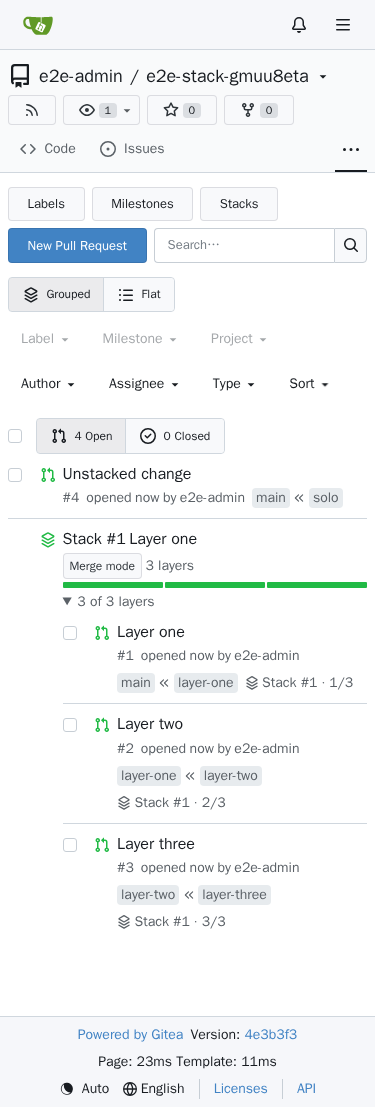
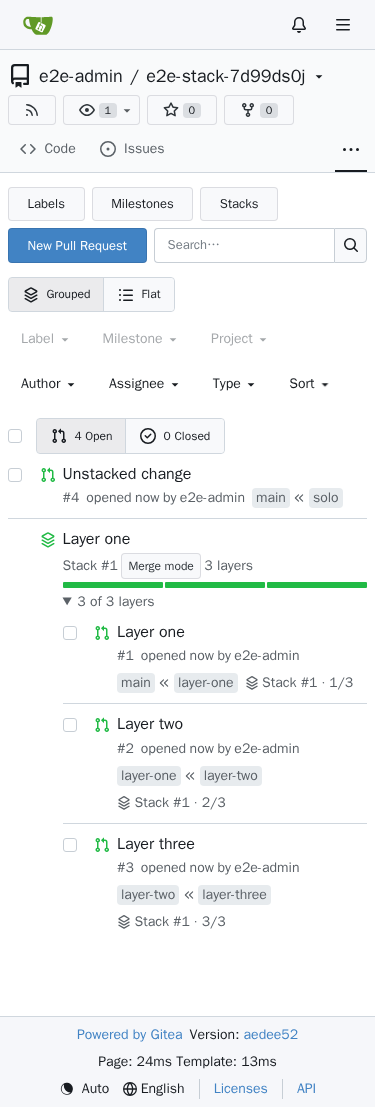
enhance(web): lead stack rows with the next layer's title
"Stack #N" beside the title read as one heading. The next layer's title
now stands alone and the stack number moves to the meta line.

Assisted-by: Claude Code:claude-opus-5-5

diff --git a/tests/integration/stack_ui_test.go b/tests/integration/stack_ui_test.go
@@ -74,7 +74,8 @@ func TestPullListGroupsStacks(t *testing.T) {
 	doc := list("")
 	assert.Equal(t, 2, doc.Find("#issue-list > .item").Length())
 	stackRow := doc.Find("#issue-list > .item:has(details)")
-	assert.Equal(t, fmt.Sprintf("Stack #%d issue3", stack.ID), strings.Join(strings.Fields(stackRow.Find(".item-header").First().Text()), " ")) // lowest open layer; #2 has merged
+	assert.Equal(t, "issue3", strings.TrimSpace(stackRow.Find(".item-header").First().Text())) // lowest open layer; #2 has merged
+	assert.Equal(t, fmt.Sprintf("Stack #%d", stack.ID), strings.TrimSpace(stackRow.Find(".item-body "+stackLink).First().Text()))
 	assert.Contains(t, stackRow.Find(".item-body").First().Text(), "Operation: blocked")
 	assert.Equal(t, 3, stackRow.Find(".stack-status-bar > span").Length())
 	assert.Equal(t, "3 of 3 layers", strings.TrimSpace(stackRow.Find("details[open] > summary").Text())) // few layers start expanded
